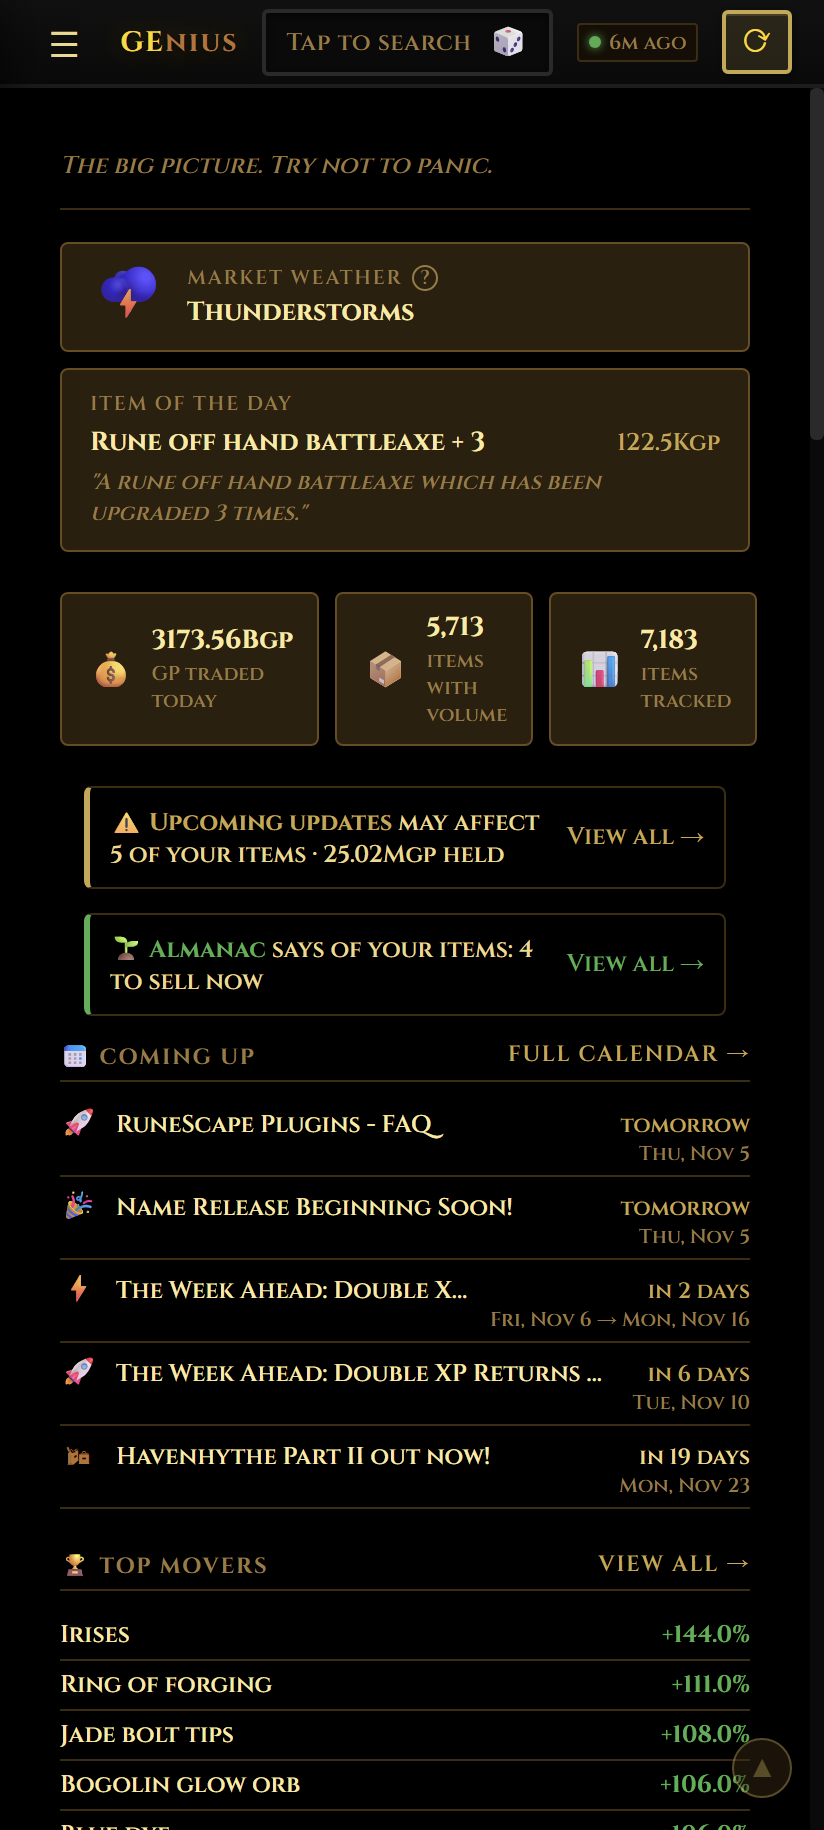
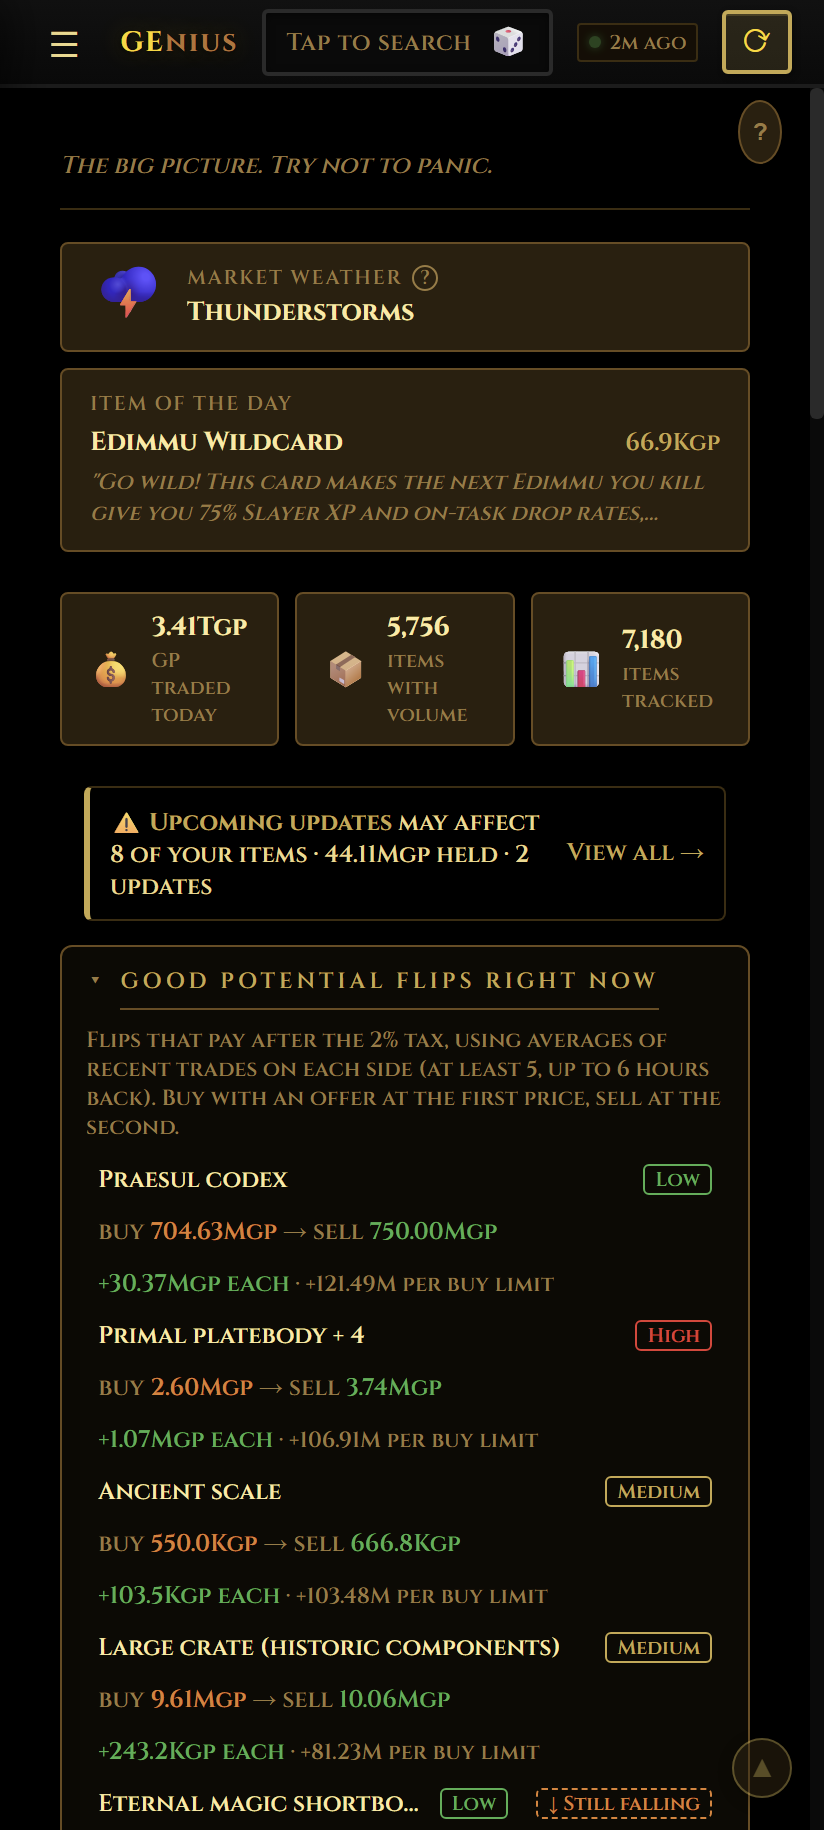
Site screenshots: watchlist, dashboard and phone shots retaken (site-shots.js takes phone shots now); trillions show as T

diff --git a/scripts/site-shots.js b/scripts/site-shots.js
@@ -74,19 +74,29 @@ function fakeData(items) {
     'flips': `window.__geniusTest.goto('flips')`,
     'item': `(window.__geniusTest.goto('market'), new Promise(r => setTimeout(r, 1500)).then(() => window.__geniusTest.openItem('Dragon dart tip')))`,
     'money-makers': `window.__geniusTest.goto('money_makers')`,
+    'watchlist': `window.__geniusTest.goto('watchlist')`,
+    // Phone shots: 412x915 at 2x (824x1830, the size on the site). IS_PHONE is
+    // set once at load, so these run after a reload at phone size (below).
+    'phone-dashboard': `window.__geniusTest.goto('dashboard')`,
+    'phone-portfolio': `window.__geniusTest.goto('portfolio')`,
+    'phone-market': `window.__geniusTest.goto('watchlist')`,
   };
-  for (const [theme, suffix] of [['dark', 'dark'], ['black', 'black']]) {
+  const DESK = { width: 1440, height: 900, deviceScaleFactor: 1, mobile: false };
+  const PHONE = { width: 412, height: 915, deviceScaleFactor: 2, mobile: true };
+  const groups = [[DESK, want.filter(n => !n.startsWith('phone-'))], [PHONE, want.filter(n => n.startsWith('phone-'))]].filter(g => g[1].length);
+  for (const [theme, suffix] of [['dark', 'dark'], ['black', 'black']]) for (const [METRICS, names] of groups) {
+    await send('Emulation.setDeviceMetricsOverride', METRICS);
     await js(`window.genius.getSettings().then(s => window.genius.saveSettings({...s, theme: '${theme}'}))`);
     await js(`(localStorage.setItem('pageGuidesOff','true'), localStorage.removeItem('genius_dash_folds'), localStorage.removeItem('genius_goodnow_open'), location.reload(), true)`).catch(() => {});
     await wait(2000);
     try { ws.close(); } catch {}
     await connect();
-    await send('Emulation.setDeviceMetricsOverride', { width: 1440, height: 900, deviceScaleFactor: 1, mobile: false });
-    await until(`!!window.__geniusTest && document.body.innerText.length > 3000`);
+    await send('Emulation.setDeviceMetricsOverride', METRICS);
+    await until(`!!window.__geniusTest && document.body.innerText.length > (${METRICS.mobile} ? 800 : 3000)`);
     // The theme applies once settings have loaded after the reload; the first
     // shot came out in the wrong theme with only 4s (2026-11-12).
     await wait(10000);
-    for (const name of want) {
+    for (const name of names) {
       if (!SHOTS[name]) { console.log('unknown shot ' + name); continue; }
       // Close any open item panel first (the item shot leaves one open).
       if (name !== 'item') { await js(`([...document.querySelectorAll('button')].find(b => b.textContent.trim() === 'X')?.click(), true)`); await wait(400); }

diff --git a/src/renderer.js b/src/renderer.js
@@ -528,7 +528,7 @@ function SignalBadge({signal, label, details, style: extraStyle}) {
 
 /* ─── Helpers ────────────────────────────────────────────────── */
 const fmt = {
-  gp:  n => { if (!n && n !== 0) return '—'; const a = Math.abs(n); if (FULL_NUMBERS) return (a >= 1000 ? Math.round(n) : n).toLocaleString(); if (a >= 1e9) return (n/1e9).toFixed(2)+'B'; if (a >= 1e6) return (n/1e6).toFixed(2)+'M'; if (a >= 1e3) return (n/1e3).toFixed(1)+'K'; return n.toLocaleString(); },
+  gp:  n => { if (!n && n !== 0) return '—'; const a = Math.abs(n); if (FULL_NUMBERS) return (a >= 1000 ? Math.round(n) : n).toLocaleString(); if (a >= 1e12) return (n/1e12).toFixed(2)+'T'; if (a >= 1e9) return (n/1e9).toFixed(2)+'B'; if (a >= 1e6) return (n/1e6).toFixed(2)+'M'; if (a >= 1e3) return (n/1e3).toFixed(1)+'K'; return n.toLocaleString(); },
   pct: n => (n >= 0 ? '+' : '') + n.toFixed(2) + '%',
   num: n => n ? n.toLocaleString() : '—',
 };
